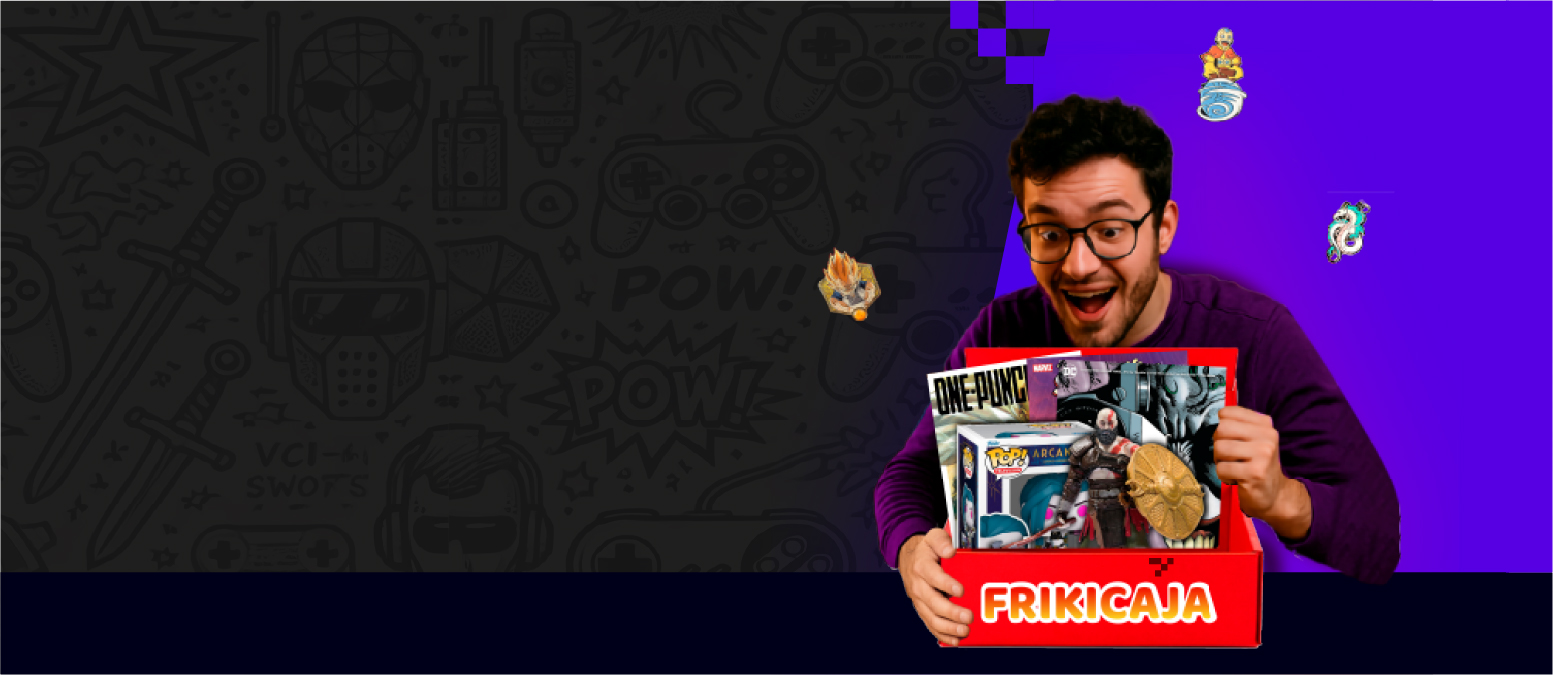
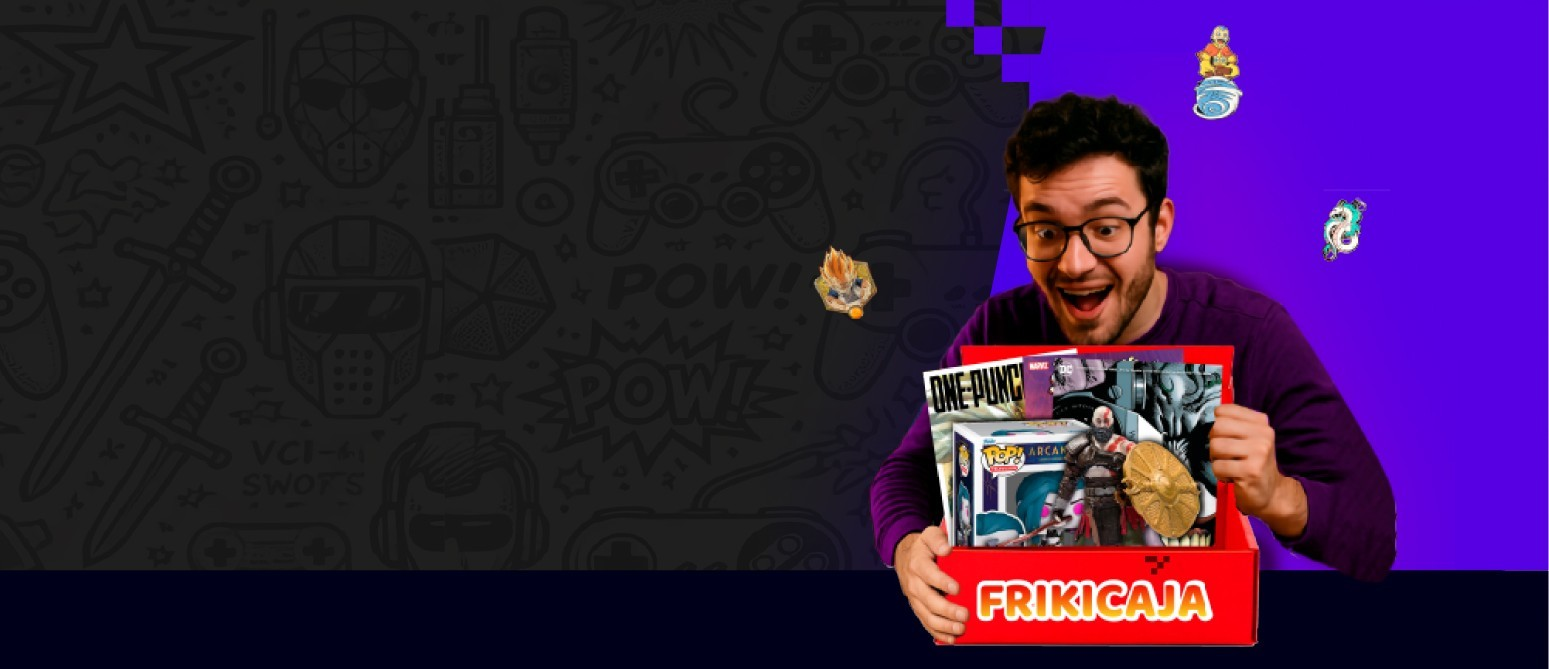
Add files via upload

diff --git a/home.html b/home.html
@@ -20,35 +20,38 @@
 </head>
 <body>
 
-<!-- NAVBAR: Menú de navegación fijo superior -->
 <header class="navbar">
   <div class="navbar-container">
     <img src="img/logofrikicaja.png" class="logo">
-    <nav class="main-nav">
-      <ul class="nav-links">
-        <li><a href="home.html">Inicio</a></li>
-        <li><a href="#instrucciones">Instrucciones</a></li>
-        <li><a href="#suscripciones">Suscripciones</a></li>
-        <li><a href="#Q&A">Q&A</a></li>
-      </ul>
-    </nav>
+
+    <div class="nav-right">
+      <nav class="main-nav">
+        <ul class="nav-links">
+          <li><a href="home.html">Inicio</a></li>
+          <li><a href="#instrucciones">Instrucciones</a></li>
+          <li><a href="#suscripciones">Suscripciones</a></li>
+          <li><a href="#Q&A">Q&A</a></li>
+        </ul>
+      </nav>
+
+      <button class="hamburger" id="hamburger-toggle">☰</button>
+    </div>
   </div>
-  <!-- Esto lo movés fuera del contenedor -->
-  <button class="hamburger" id="hamburger-toggle">☰</button>
+
   <nav class="dropdown-menu" id="dropdown">
-      <ul>
-        <li><a href="home.html">Inicio</a></li>
-        <li><a href="#loot">Loot</a></li>
-        <li><a href="#instrucciones">Instrucciones</a></li>
-        <li><a href="#suscripciones">Suscripciones</a></li>
-        <li><a href="#geekswap">GeekSwap</a></li>
-        <li><a href="#opiniones">Opiniones</a></li>
-        <li><a href="#Q&A">Q&A</a></li>
-        <li><a href="#contacto">Contacto</a></li>
-      </ul>
-    </nav>
+    <ul>
+      <li><a href="home.html">Inicio</a></li>
+      <li><a href="#loot">Loot</a></li>
+      <li><a href="#instrucciones">Instrucciones</a></li>
+      <li><a href="#suscripciones">Suscripciones</a></li>
+      <li><a href="#geekswap">GeekSwap</a></li>
+      <li><a href="#opiniones">Opiniones</a></li>
+      <li><a href="#Q&A">Q&A</a></li>
+      <li><a href="#contacto">Contacto</a></li>
+    </ul>
+  </nav>
 </header>
-<!-- /NAVBAR -->
+
 
 
 <section class="hero-section" id="inicio">
@@ -242,7 +245,7 @@
 
 
 <!-- Opiniones -->
-<section class="opiniones-section">
+<section class="opiniones-section" id="opiniones">
   <h2 class="opiniones-titulo">Opiniones</h2>
   <p class="opiniones-subtitulo">Conocé lo que dicen los demás jugadores</p>
 
@@ -265,7 +268,7 @@
 <!-- FAQS: Preguntas frecuentes -->
  <section id="Q&A" class="faq-section">
   <h2>Preguntas Frecuentes</h2>
-  <p class="subtitulo">Respuestas a dudas comunes.</p>
+  <p class="subtitulo-faq">Respuestas a dudas comunes.</p>
 
   <div class="faq-container">
 

diff --git a/plan.html b/plan.html
@@ -24,29 +24,33 @@
 <header class="navbar">
   <div class="navbar-container">
     <img src="img/logofrikicaja.png" class="logo">
-    <nav class="main-nav">
-      <ul class="nav-links">
-        <li><a href="home.html">Inicio</a></li>
-        <li><a href="#instrucciones">Instrucciones</a></li>
-        <li><a href="#suscripciones">Suscripciones</a></li>
-        <li><a href="#Q&A">Q&A</a></li>
-      </ul>
-    </nav>
+
+    <div class="nav-right">
+      <nav class="main-nav">
+        <ul class="nav-links">
+          <li><a href="home.html">Inicio</a></li>
+          <li><a href="#instrucciones">Instrucciones</a></li>
+          <li><a href="#suscripciones">Suscripciones</a></li>
+          <li><a href="#Q&A">Q&A</a></li>
+        </ul>
+      </nav>
+
+      <button class="hamburger" id="hamburger-toggle">☰</button>
+    </div>
   </div>
-  <!-- Esto lo movés fuera del contenedor -->
-  <button class="hamburger" id="hamburger-toggle">☰</button>
+
   <nav class="dropdown-menu" id="dropdown">
-      <ul>
-        <li><a href="home.html">Inicio</a></li>
-        <li><a href="#loot">Loot</a></li>
-        <li><a href="#instrucciones">Instrucciones</a></li>
-        <li><a href="#suscripciones">Suscripciones</a></li>
-        <li><a href="#geekswap">GeekSwap</a></li>
-        <li><a href="#opiniones">Opiniones</a></li>
-        <li><a href="#Q&A">Q&A</a></li>
-        <li><a href="#contacto">Contacto</a></li>
-      </ul>
-    </nav>
+    <ul>
+      <li><a href="home.html">Inicio</a></li>
+      <li><a href="#loot">Loot</a></li>
+      <li><a href="#instrucciones">Instrucciones</a></li>
+      <li><a href="#suscripciones">Suscripciones</a></li>
+      <li><a href="#geekswap">GeekSwap</a></li>
+      <li><a href="#opiniones">Opiniones</a></li>
+      <li><a href="#Q&A">Q&A</a></li>
+      <li><a href="#contacto">Contacto</a></li>
+    </ul>
+  </nav>
 </header>
 <!-- /NAVBAR -->
 

diff --git a/css/styles.css b/css/styles.css
@@ -36,36 +36,44 @@ header {
   width: 100%;
   top: 0;
   z-index: 999;
-}
-.navbar {
   display: flex;
-  justify-content: space-between;
+  justify-content: center;
   align-items: center;
 }
-
 
 .navbar-container {
   display: flex;
+  justify-content: space-between;
   align-items: center;
+  width: 100%;
+  max-width: 1200px;
 }
 
 .logo {
-  margin-right: auto; /* Esto empuja TODO lo demás a la derecha */
+  margin-right: auto;
+  max-height: 50px;
 }
 
 .main-nav {
   display: flex;
-  align-items: end;
+  align-items: center;
+}
+
+.nav-right {
+  display: flex;
+  align-items: center;
+  gap: 1rem;
+  flex-wrap: nowrap;
 }
 
 .nav-links {
   display: flex;
-  gap: 1.5rem;
+  gap: 1rem;
   list-style: none;
   margin: 0;
-  align-items: end;
+  align-items: center;
+  flex-wrap: nowrap;
 }
-
 
 .main-nav a {
   color: white;
@@ -85,6 +93,7 @@ header {
   padding: 4px 12px;
   border-radius: 8px;
   cursor: pointer;
+  flex-shrink: 0;
 }
 
 .dropdown-menu {
@@ -124,11 +133,12 @@ header {
   color: #c000fa;
 }
 
+
 /* 4. HERO */
 .hero-section {
   margin-top: 60px;
   background-image: url('../img/fondoheroo.jpg');
-  background-size: contain;
+  background-size: cover;
   background-position: center;
   background-repeat: no-repeat;
   min-height: 100vh;
@@ -612,9 +622,9 @@ header {
   margin-bottom: 10px;
 }
 
-.subtitulo {
+.subtitulo-faq {
   margin-bottom: 30px;
-  color: #ddd;
+  color: #ffffff;
   font-size: 1rem;
 }
 
